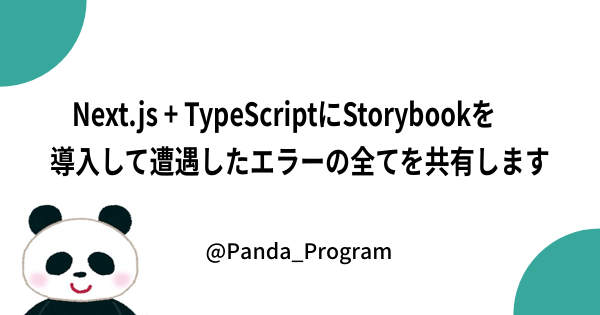
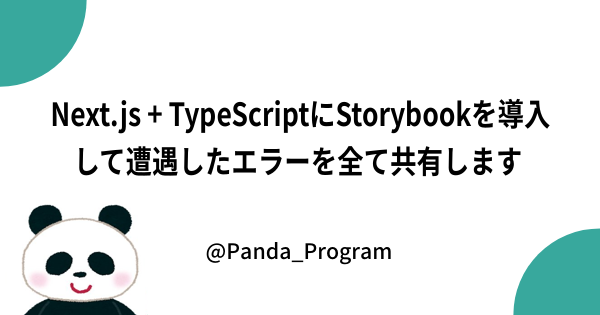
descriptionを追加

Changed region(s): [[0.06, 0.4571, 0.93, 0.5714], [0.06, 0.3143, 0.93, 0.4286]]

diff --git a/content/posts/2020/07/2020-07-20.md b/content/posts/2020/07/2020-07-20.md
@@ -1,5 +1,5 @@
 ---
-title: "Next.js + TypeScriptにStorybookを導入して遭遇したエラーの全てを共有します"
+title: "Next.js + TypeScriptにStorybookを導入して遭遇したエラーを全て共有します"
 date: "2020-07-21T23:37:48.000Z"
 updatedAt: "2020-07-22T23:37:48.000Z"
 template: "post"
@@ -10,7 +10,7 @@ tags:
     - "Next.js"
     - "Storybook"
     - "TypeScript"
-description: ""
+description: "この記事では、Next.jsにStorybookを導入してTypeScriptでReactコンポーネントを書けるようにする間に私が踏み抜いたバグと解消法を全て紹介します。Storybookとは、UIコンポーネントのカタログを作るツールです。Storybook上でUI開発時にあれこれ試行錯誤をしてもメインのアプリに影響を与えないので、安心してUIを作ったり変えたり消したりできます。"
 socialImage: "/media/2020/07/20/2020_07_20__0.png"
 ---
 
@@ -201,7 +201,7 @@ module.exports = {
 
 これでSCSSが読み込めない解消されました。
 
-### 「Module not found: Error: Can’t resolve ‘src/hooks/useCounter.ts’ in ‘/Users/panda/nextjs/app/src/Components/Header’」で絶対パスでのインポートができない（Absolute imports）
+### 「Module not found: Error: Can’t resolve ‘src/hooks/useCounter.ts’」で絶対パスでのインポートができない（Absolute imports）
 Next.jsの9.4から、[モジュールを絶対パスでインポートができるようになりました。](https://nextjs.org/blog/next-9-4#absolute-imports-and-aliases)
 
 ```js{1}:title=Header.tsx
